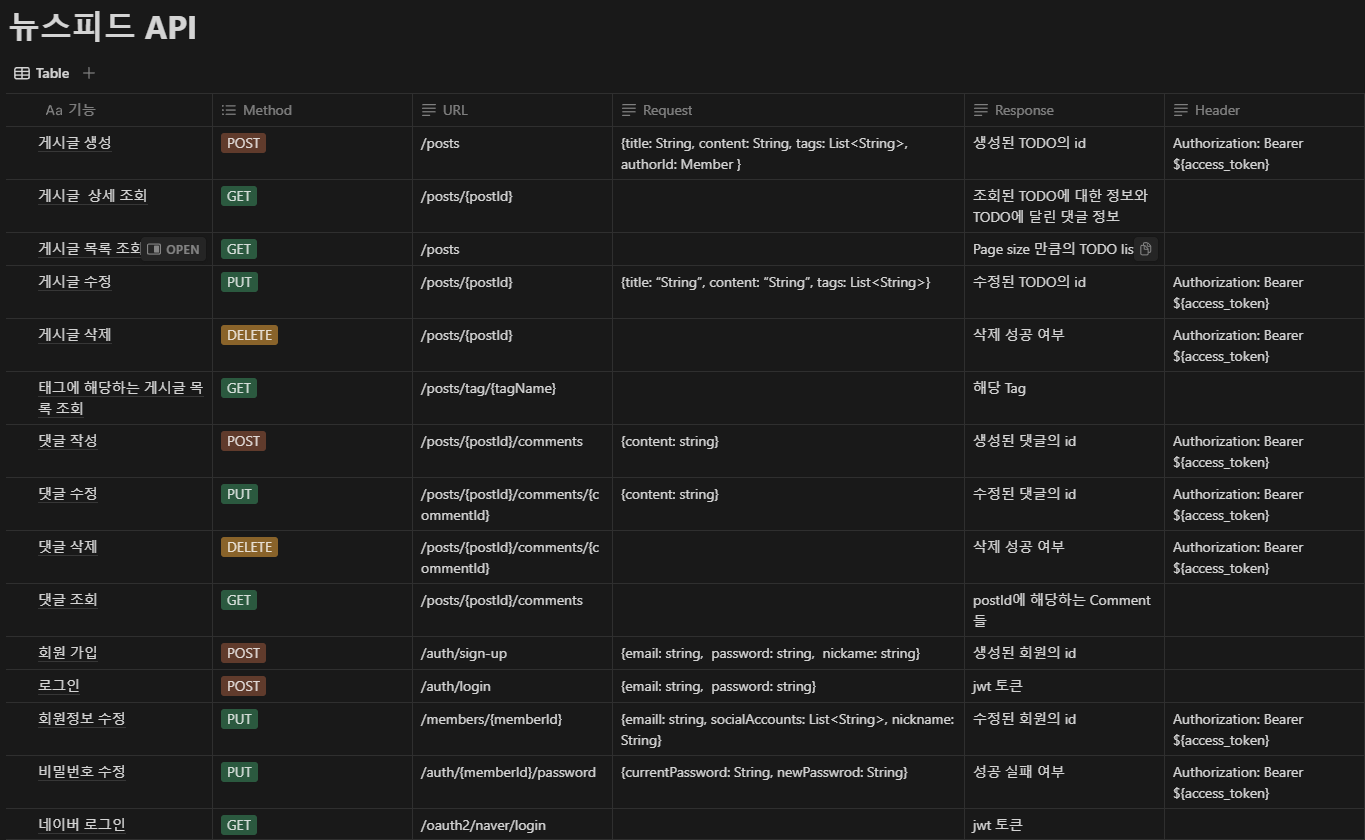
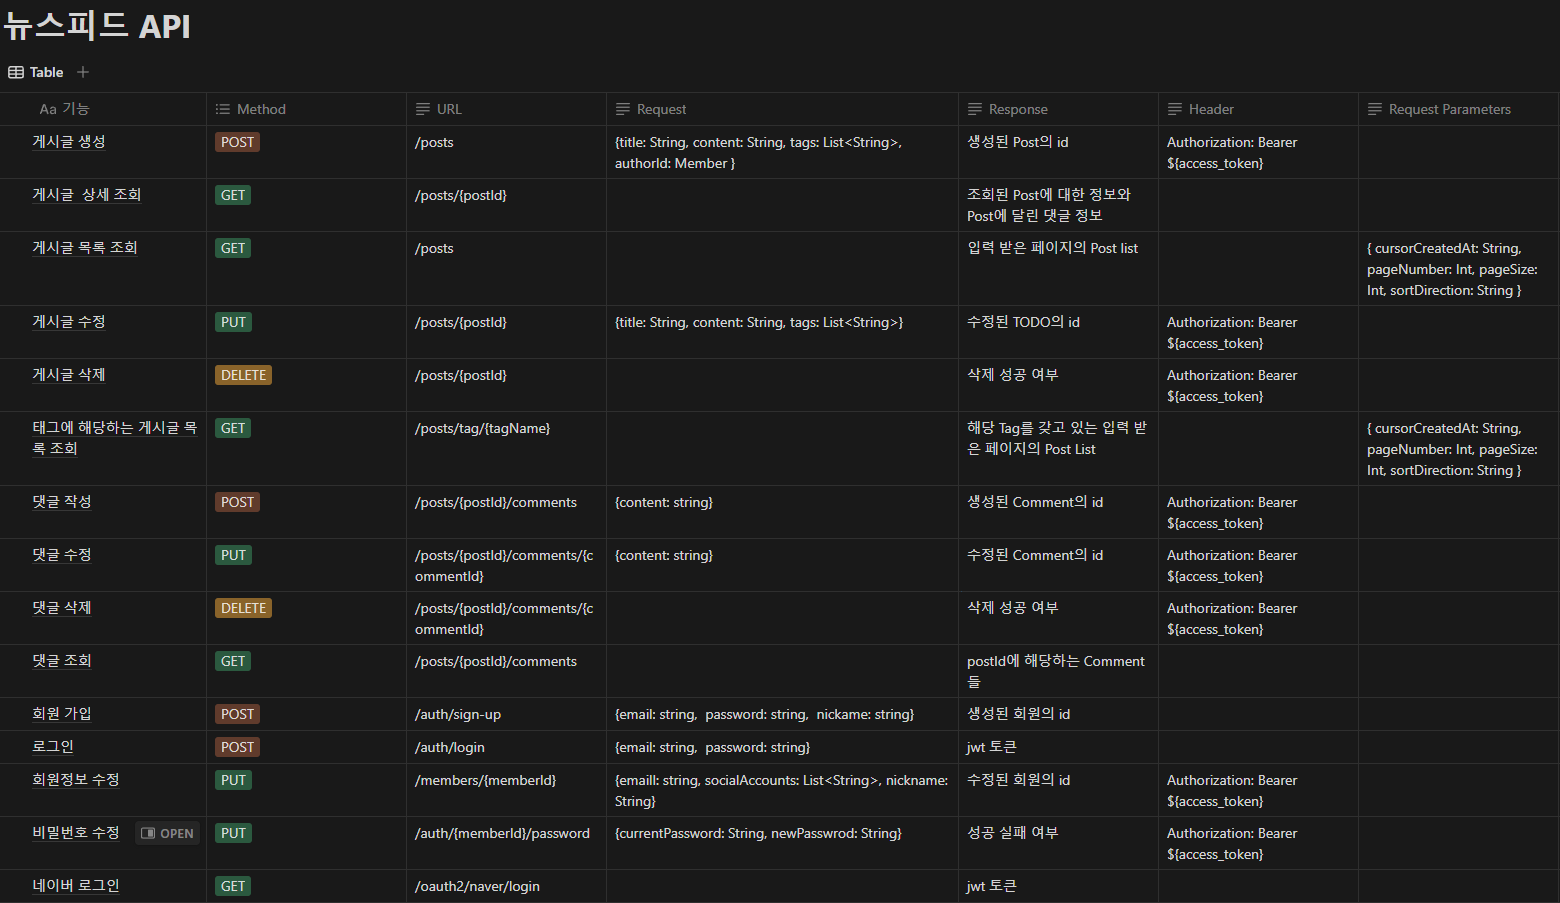
docs: README 요구 사항 -> 기능으로 수정 (#19)
* docs: README 요구 사항 -> 기능으로 수정

* docs: README API 명세 이미지 수정

* docs: README naver oauth 참고 자료

* docs: README 환경설정 수정

* docs: README 프로필 수정 기능 수정

diff --git a/README.md b/README.md
@@ -21,44 +21,53 @@ http://localhost:8080/swagger-ui/index.html#
 
 https://youtu.be/7aZyFnnfp4E?feature=shared
 
-## 📈 과제 요구사항
+## 📈 기능 상세
 
-### 필수 구현 기능(요구사항)
-
-- [x]  **게시물 CRUD 기능**
+- **게시물 CRUD 기능**
     - 게시물 작성, 조회, 수정, 삭제 기능
-- [x]  **뉴스피드 기능(메인 페이지/전체 조회 페이지)**
+    - 게시물 커서 기반 페이지네이션
+
+- **게시물 Tag**
+    - 게시물을 생성, 수정할 때 사용자가 내용과 관련된 여러 태그를 입력 가능
+    - 원하는 태그를 가진 게시물 검색 기능
+
+- **뉴스피드 기능(메인 페이지/전체 조회 페이지)**
     - 뉴스피드 페이지
-        - 사용자가 다른 사용자의 게시물을 한 눈에 볼 수 있는 뉴스피드 페이지가 있어야 합니다.
-- [x]  **상세보기 기능(디테일 페이지)**
+        - 사용자가 다른 사용자의 게시물을 한 눈에 볼 수 있는 뉴스피드 페이지
+
+- **상세보기 기능(디테일 페이지)**
     - 게시글의 상세 페이지
-        - 게시글의 내용과 댓글을 볼 수 있는 상세페이지가 있어야 합니다.
-- [x]  **댓글 CRUD 기능**
+        - 게시글의 내용과 댓글을 볼 수 있는 상세페이지
+
+- **댓글 CRUD 기능**
     - 댓글 작성, 조회, 수정, 삭제 기능
-        - 사용자는 게시물에 댓글을 작성할 수 있고 본인의 댓글은 수정 및 삭제를 할 수 있어야 합니다.
+        - 사용자는 게시물에 댓글을 작성할 수 있고 본인의 댓글만 수정 및 삭제 가능
 
-### 선택 구현 기능
-
-- [x]  **사용자 인증/인가 기능**
+- **사용자 인증/인가 기능**
     - 회원가입 기능
-        - 새로운 사용자가 ID와 비밀번호의 형태로 서비스에 가입할 수 있어야 합니다.
-            - 이 때, 비밀번호는 안전하게 암호화되어 저장되어야 합니다!
+        - ID와 비밀번호의 형태로 서비스에 가입 가능
+            - 비밀번호는 암호화해서 저장
     - 로그인 및 로그아웃 기능
-        - 사용자는 자신의 계정으로 서비스에 로그인하고 로그아웃할 수 있어야 합니다.
-            - 로그인 시 토큰을 제공하고 만료 시간은 설정되어있지만 로그아웃은 미구현 상태입니다.
+        - 자신의 계정으로 서비스에 로그인 가능
+            - 로그인 시 토큰을 제공하고 만료 시간은 설정되어있지만 로그아웃은 미구현
     - 인가 기능
-        - 앞서 구현하신 게시물 CRUD 기능에 게시물과 댓글 조회를 제외한 나머지 기능들은 전부 인가(Authorization) 개념이 적용되어야 하며 이는 JWT를 통해.
-- [x]  **프로필 관리**
+        - 게시물과 댓글 조회, 회원 가입, 로그인을 제외한 나머지 기능들은 JWT를 통해 인가
+
+- **회원정보 관리**
     - 프로필 수정 기능
-        - 이름, 한 줄 소개와 같은 기본적인 정보를 볼 수 있어야 하며 수정할 수 있어야 합니다.
-        - 비밀번호 수정 시에는 비밀번호를 한 번 더 입력받는 과정이 필요합니다.
-- [x]  **소셜 로그인 기능 구현**
-    - 네이버 로그인 개발가이드를 참고하여 네이버 로그인을 구현해보세요.
+        - Nickname, Social Accounts 수정
+    - 비밀번호 수정 기능
+        - 현재 비밀번호와 새로운 비밀번호를 입력받아 검증 후 비밀번호 수정
+
+- **소셜 로그인 기능 구현**
+    - 네이버 로그인 구현
+    - application.yml에 Naver Login API 관련 정보를 기입해야 합니다.
+    - [참고 페이지](https://github.com/ABRASAX3/abrasax/pull/14)
 
 ## 환경설정
 
-Language : Kotlin 1.9.24
-IDEA : IntelliJ IDEA 2024.1
-JDK : temurin 17.0.11  
-Database : super base & postgresql  
-springframework.boot : 3.3.0
+- Language : Kotlin 1.9.24
+- IDEA : IntelliJ IDEA 2024.1
+- JDK : temurin 17.0.11
+- Database : super base & postgresql
+- springframework.boot : 3.3.0
